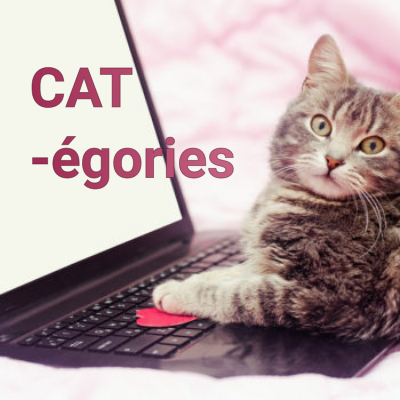
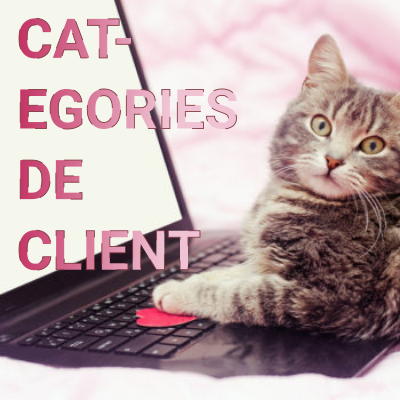
TP freelancer view title + links + nav home + last updated

Changed region(s): [[0.03, 0.03, 0.6, 0.51], [0.03, 0.57, 0.51, 0.69]]

diff --git a/FOAD_WEB/TP_Freelancer/Freelancer/Freelancer/wwwroot/css/styles.css b/FOAD_WEB/TP_Freelancer/Freelancer/Freelancer/wwwroot/css/styles.css
@@ -42,6 +42,15 @@ header {
     margin: 1%;
 }
 
+#nav-home {
+    display: inline-block;
+    margin:auto;
+}
+#nav-home img{
+    width:200px;
+    margin : 10px;
+}
+
 
 #buttonClient, #buttonMissions, .btn-ajout {
     color: #45505E;

diff --git a/FOAD_WEB/TP_Freelancer/Freelancer/Freelancer/Controllers/MissionsController.cs b/FOAD_WEB/TP_Freelancer/Freelancer/Freelancer/Controllers/MissionsController.cs
@@ -23,8 +23,15 @@ namespace Freelancer.Controllers
         public async Task<IActionResult> Index()
         {
             var missions = _context.Missions.Include(c => c.Client);
+            if (missions.Any())
+            {
+            var missionsOrderByUpdated = missions.OrderBy(c => c.UpdatedAt);
+                Mission lastMissionUpdated = missionsOrderByUpdated.Last();
+                ViewData["lastMissionCreateUpdate"] = "Derniere mission ajoutée/modifiée : "+lastMissionUpdated.MissionId + " : " + lastMissionUpdated.Titre;
+            }
+            
             return View(await missions.ToListAsync());
-           
+
         }
 
         // GET: Missions/Details/5
@@ -36,7 +43,7 @@ namespace Freelancer.Controllers
             }
             var missions = _context.Missions.Include(c => c.Client);
             var mission = await missions.FirstOrDefaultAsync(m => m.MissionId == id);
-            
+
             if (mission == null)
             {
                 return NotFound();
@@ -66,7 +73,7 @@ namespace Freelancer.Controllers
                 Devis devis = new Devis(mission.Etat, DateTime.Now, mission.Montant, mission.MissionId);
                 DevisController devisController = new DevisController(_context);
                 await devisController.Create(devis);
-               
+
                 return RedirectToAction(nameof(Index));
             }
             return View(mission);

diff --git a/FOAD_WEB/TP_Freelancer/Freelancer/Freelancer/Controllers/ClientsController.cs b/FOAD_WEB/TP_Freelancer/Freelancer/Freelancer/Controllers/ClientsController.cs
@@ -24,9 +24,12 @@ namespace Freelancer.Controllers
         {
             //return View(await _context.Clients.ToListAsync());
             var clients = _context.Clients.Include(c => c.Categorie);
-            var clientsOrderByUpdated = clients.OrderBy(c => c.UpdatedAt);
-            Client lastClientUpdated = clientsOrderByUpdated.Last();
-            ViewData["lastClientCreateUpdate"] = lastClientUpdated.Nom;
+            if (clients.Any())
+            {
+                var clientsOrderByUpdated = clients.OrderBy(c => c.UpdatedAt);
+                Client lastClientUpdated = clientsOrderByUpdated.Last();
+                ViewData["lastClientCreateUpdate"] = "Dernier client ajouté/modifié : "+lastClientUpdated.Nom;
+            }
             return View(await clients.ToListAsync());
         }
 

diff --git a/FOAD_WEB/TP_Freelancer/Freelancer/Freelancer/Controllers/CategorieClientsController.cs b/FOAD_WEB/TP_Freelancer/Freelancer/Freelancer/Controllers/CategorieClientsController.cs
@@ -22,7 +22,14 @@ namespace Freelancer.Controllers
         // GET: CategorieClients
         public async Task<IActionResult> Index()
         {
-            return View(await _context.CategoriesClient.ToListAsync());
+            var catClient = _context.CategoriesClient;
+            if (catClient.Any())
+            {
+                var catClientOrderByUpdated = catClient.OrderBy(c => c.UpdatedAt);
+                CategorieClient lastCatClientUpdated = catClientOrderByUpdated.Last();
+                ViewData["lastCatClientCreateUpdate"] = "Derniere catégorie de client ajoutée/modifiée : "+lastCatClientUpdated.Nom;
+            }
+            return View(await catClient.ToListAsync());
         }
 
         // GET: CategorieClients/Details/5

diff --git a/FOAD_WEB/TP_Freelancer/Freelancer/Freelancer/Controllers/DevisController.cs b/FOAD_WEB/TP_Freelancer/Freelancer/Freelancer/Controllers/DevisController.cs
@@ -23,7 +23,13 @@ namespace Freelancer.Controllers
         public async Task<IActionResult> Index()
         {
             var devis = _context.Devis.Include(c => c.Mission);
-            return View(await devis.ToListAsync());
+            if (devis.Any())
+            {
+                var devisOrderByUpdated = devis.OrderBy(c => c.UpdatedAt);
+                Devis lastDevisUpdated = devisOrderByUpdated.Last();
+                ViewData["lastDevisCreateUpdate"] = "Dernier devis ajouté/modifié : " + lastDevisUpdated.DevisId;
+            }
+                return View(await devis.ToListAsync());
         }
 
         // GET: Devis/Details/5
